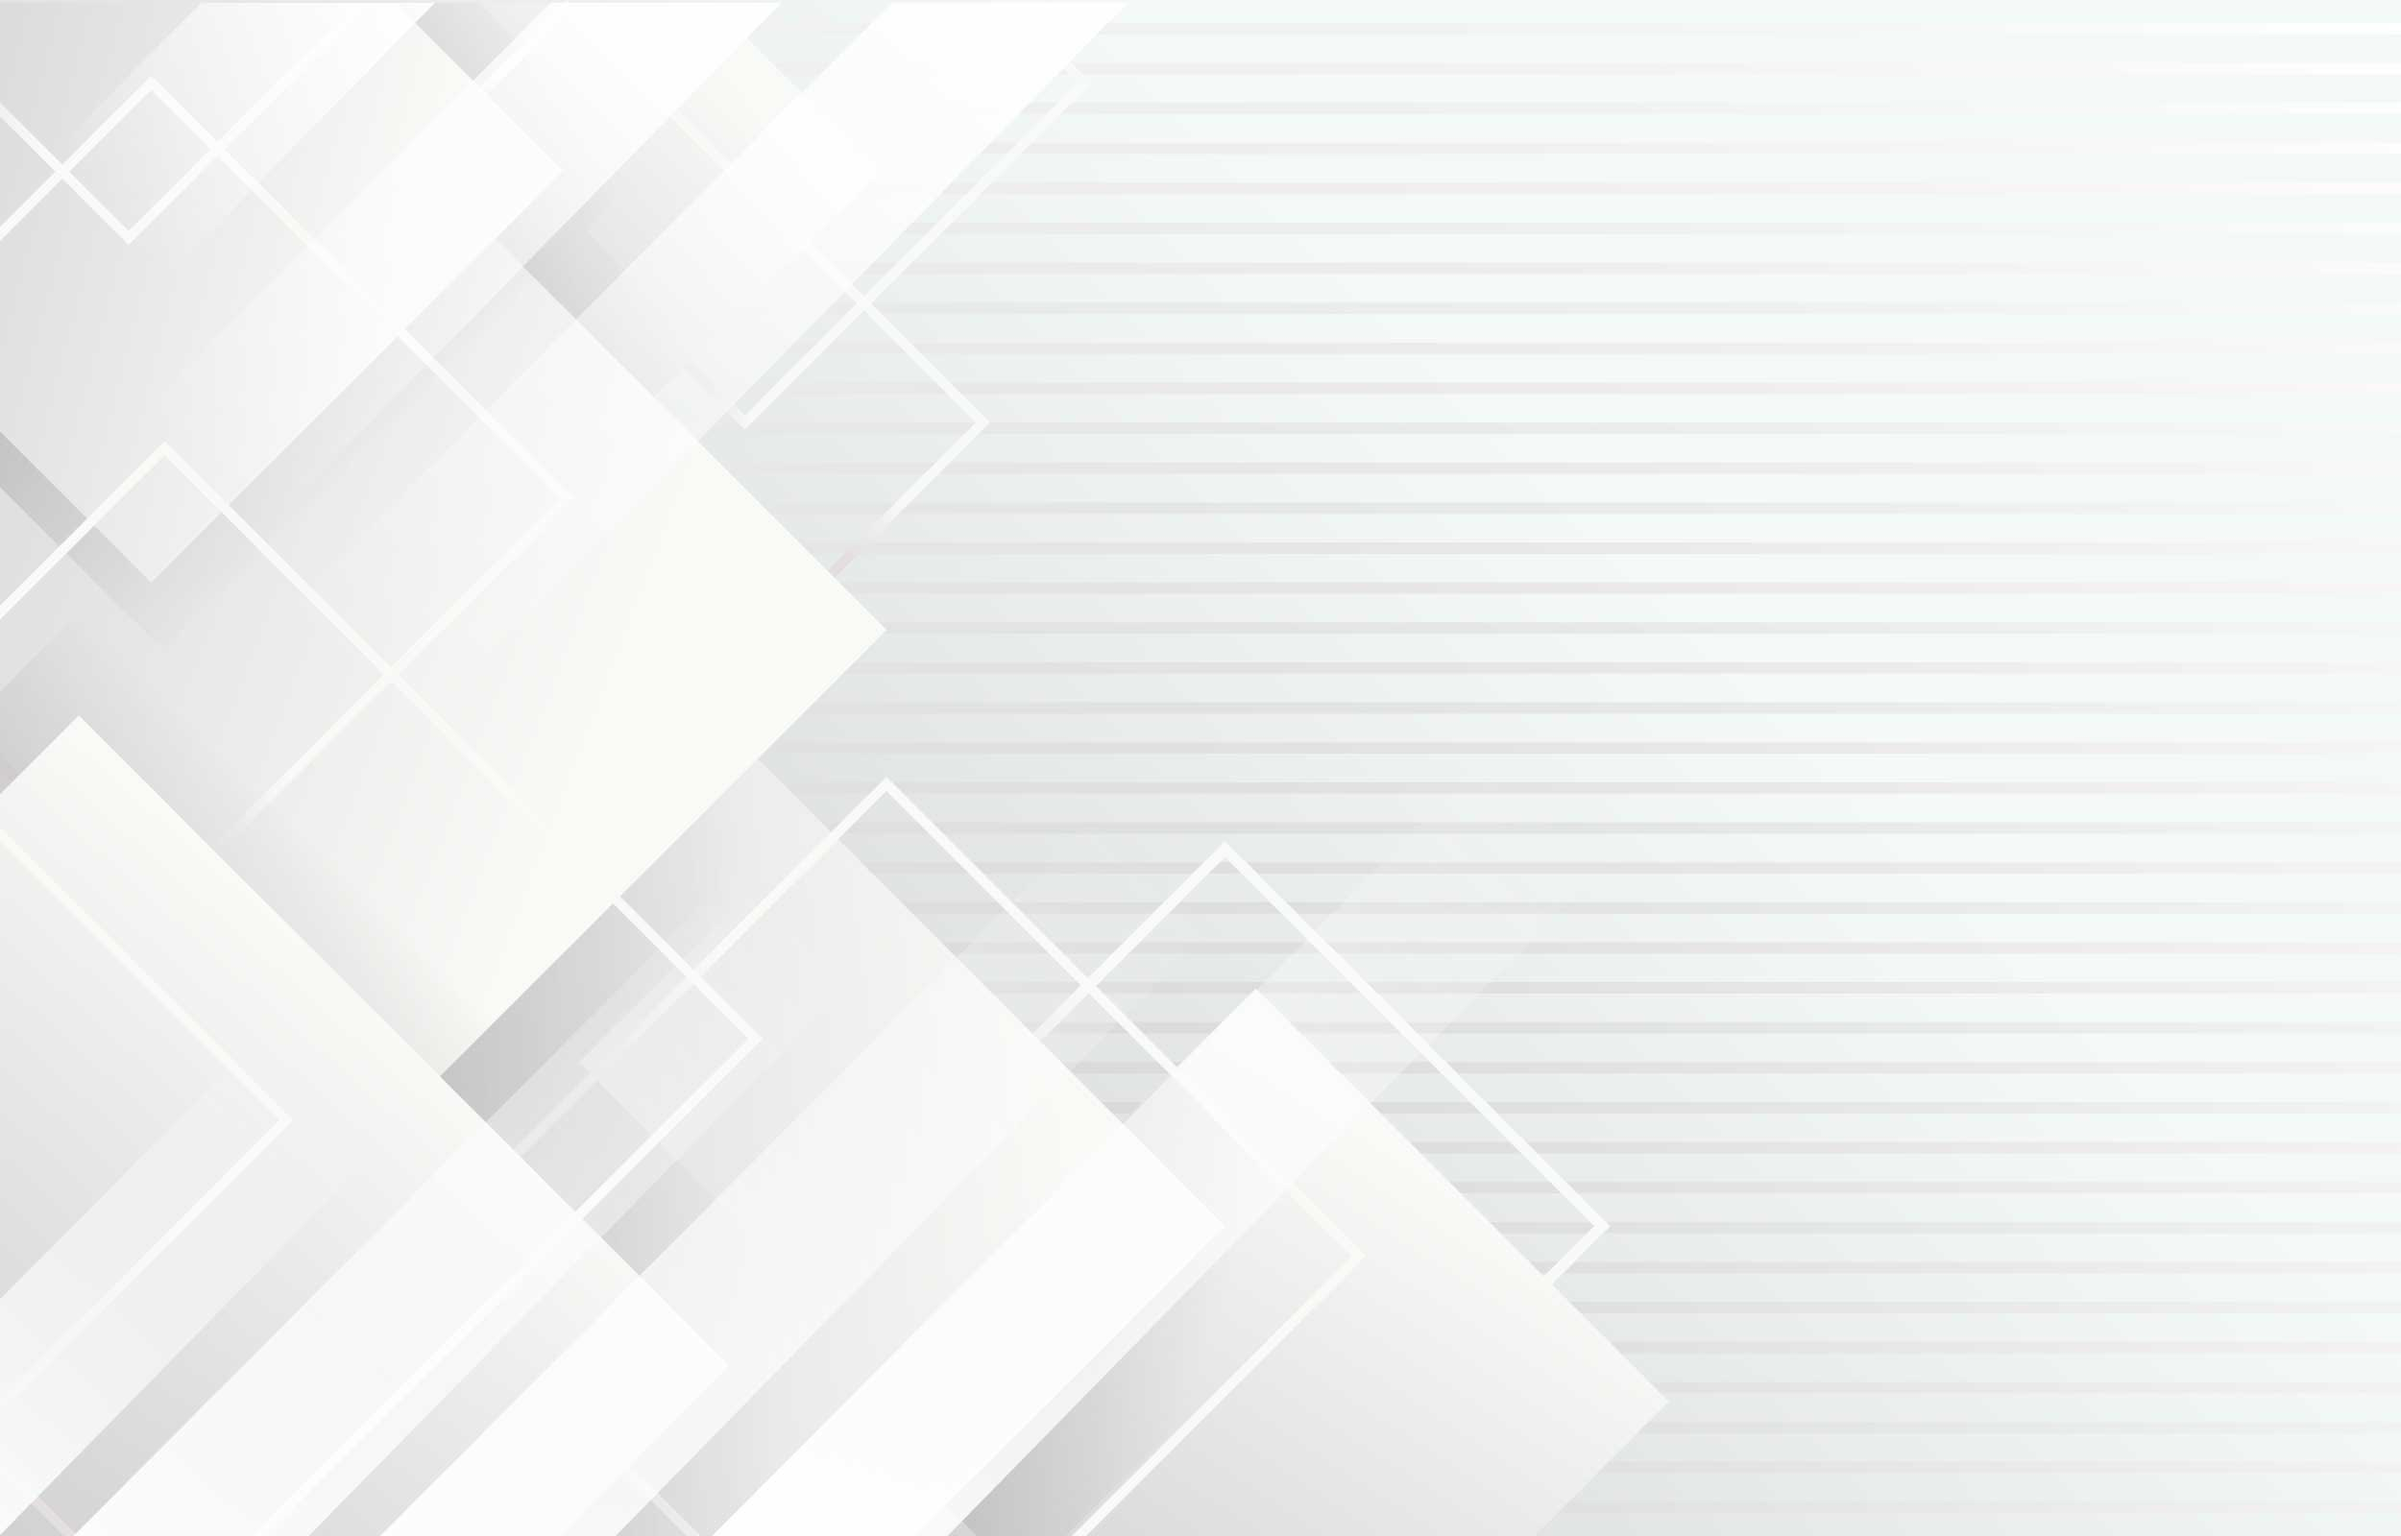
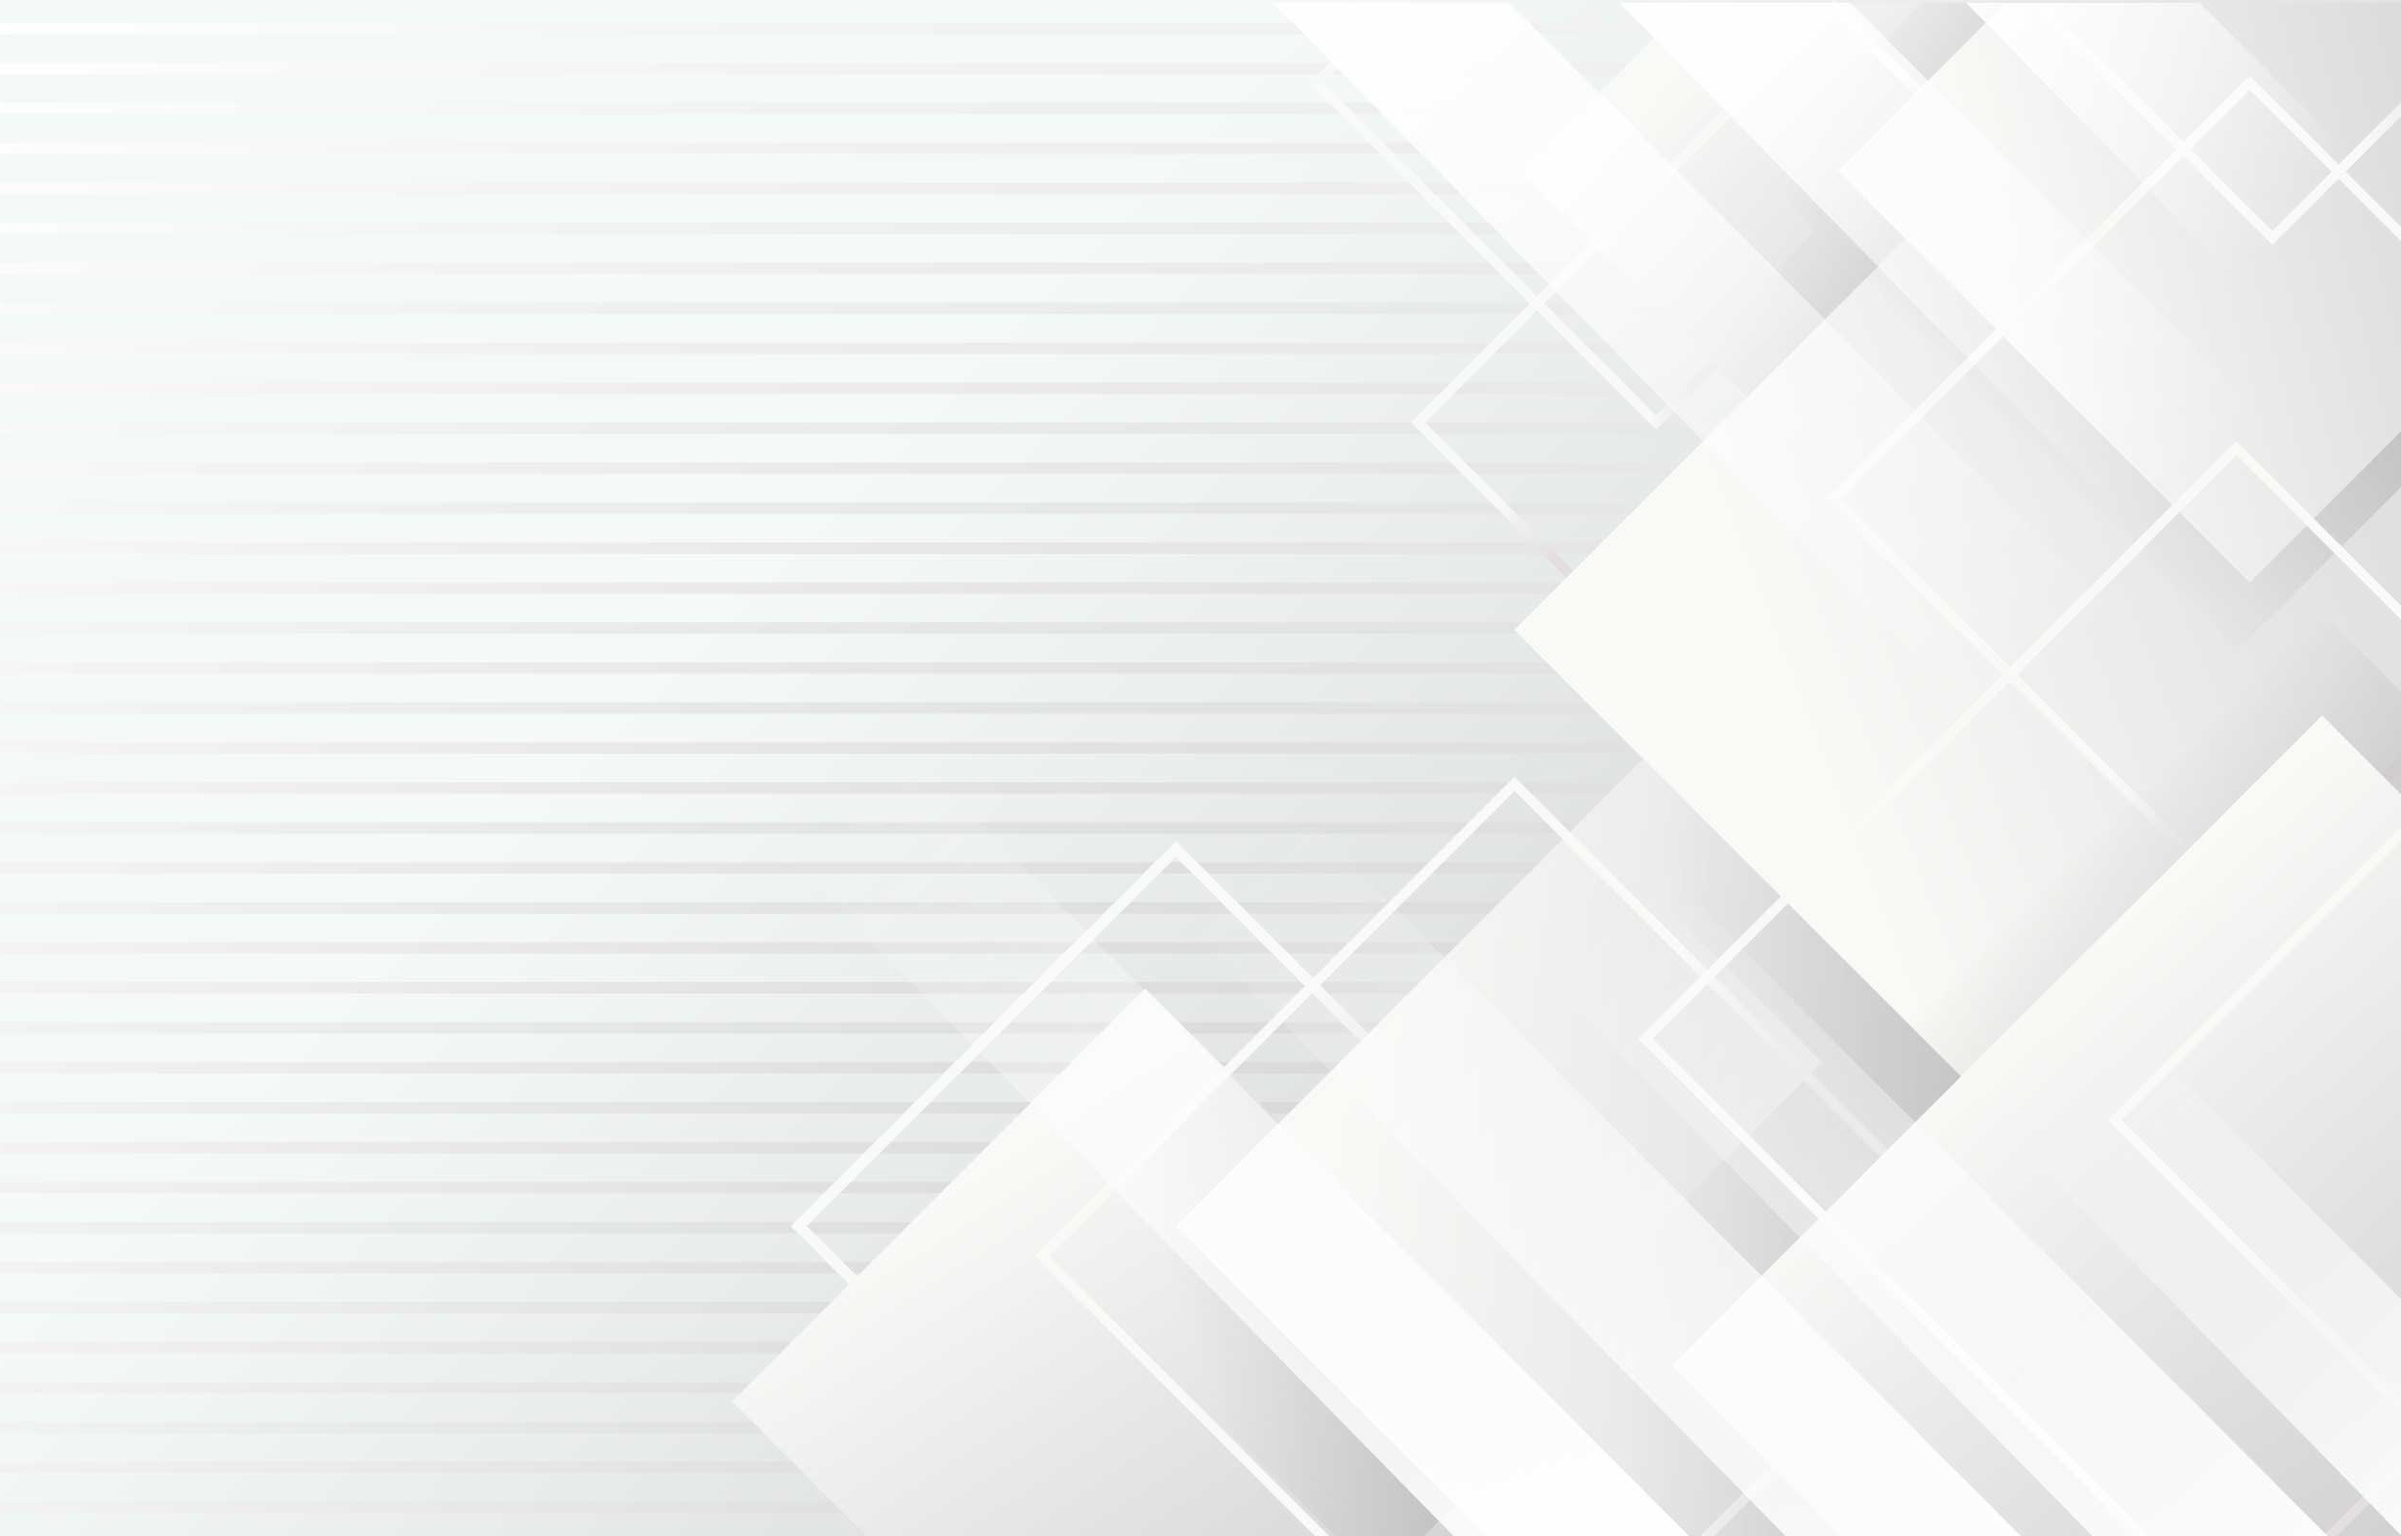
"Modify styles.css and about.css files"

diff --git a/css/styles.css b/css/styles.css
@@ -19,7 +19,7 @@ li {
 }
 
 :root {
-  --ff-coco: 'COCOGOOSE', sans-serif;
+  --ff-goose: 'COCOGOOSE', sans-serif;
   --ff-lato: 'Lato', sans-serif;
   --lineColor: #ec5242;
   --mainColor: #f23f0a;
@@ -27,7 +27,7 @@ li {
 }
 
 .first_section {
-  background-image: url('../capstone-image/desktop-bg.png');
+  background-image: url('../capstone-image/desktop-img.jpg');
   background-repeat: no-repeat;
   background-size: cover;
   height: auto;
@@ -176,14 +176,14 @@ li {
   color: var(--lineColor);
 }
 
-.theme {
+h1 {
   font-family: var(--ff-goose);
   line-height: 3.4375rem;
-  font-size: clamp(0.5rem, 1rem + 8vw, 2.125rem);
-  font-weight: 700;
-  color: #ec5242de;
+  font-size: clamp(0.5rem, 1rem + 10vw, 2.125rem);
+  font-weight: 600;
+  color: #ff422d;
   background-color: var(--mainColor);
-  background-image: url('../capstone-image/background-pattern2.jpg');
+  background-image: url('../capstone-image/text-bg.jpg');
   background-size: cover;
   background-blend-mode: multiply;
   background-clip: text;
@@ -478,6 +478,10 @@ hr {
   h1 {
     width: 80%;
     font-size: clamp(0.5rem, 1.5rem + 5vw, 3.125rem);
+    font-family: var(--ff-goose);
+    background-image: url('../capstone-image/text-bg.jpg');
+    color: #ff422d;
+    background-blend-mode: multiply;
   }
 
   .nav_container {
@@ -596,6 +600,7 @@ hr {
     padding: 4.6875rem 0 1.5625rem 0;
   }
 
+ 
   .top_section_container {
     text-align: left;
     max-width: 85%;
@@ -603,8 +608,9 @@ hr {
   }
 
   .main_section_content {
-    width: 47%;
+    width: 57%;
     gap: 0.625rem;
+    z-index: 999;
   }
 
   .second_section {

diff --git a/index.html b/index.html
@@ -67,7 +67,7 @@
       </nav>
     </header>
      <div class="main_section_container">
-
+      
         <div class="top_section_container">
         <p class="main_section_title">"Join Our Innovation!!"</p>
         <h1 class="theme">MEET-UP TO START UP, 2023 TECH CONFERENCE!</h1>
@@ -88,15 +88,15 @@
             learn from the best to be the best.
           </p>
 
-        <div class="date_container">
-          <p class="time_date">
-            2023.04.25(TUE) ~ 2023.04.29(FRI)
-          </p>
+          <div class="date_container">
+            <p class="time_date">
+              2023.04.25(TUE) ~ 2023.04.29(FRI)
+            </p>
 
-          <p class="information">
-            Powered by DECAGON INSTITUTE 
-          </p>
-        </div>
+            <p class="information">
+              Powered by DECAGON INSTITUTE 
+            </p>
+          </div>
       </div>
      </div>
   </section>

diff --git a/css/about.css b/css/about.css
@@ -20,6 +20,13 @@ li {
   list-style-type: none;
 }
 
+.first_section {
+  background-image: url('../capstone-image/desktop-bg.png');
+  background-repeat: no-repeat;
+  background-size: cover;
+  height: auto;
+}
+
 .contact_us {
   padding: 2.5rem 2.5rem 0.625rem 2.5rem;
   font: 400 0.9375rem var(--ff-lato);
